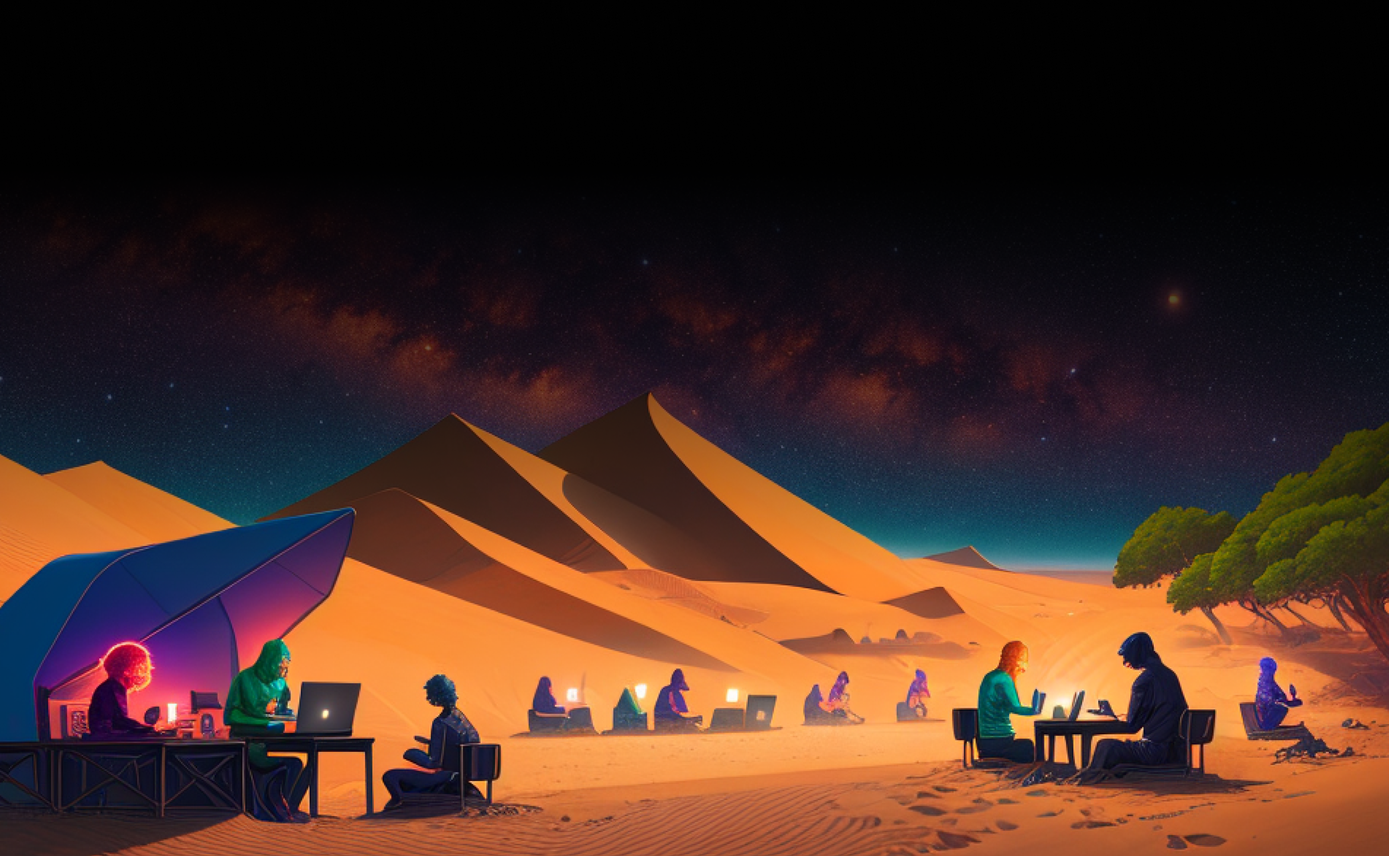
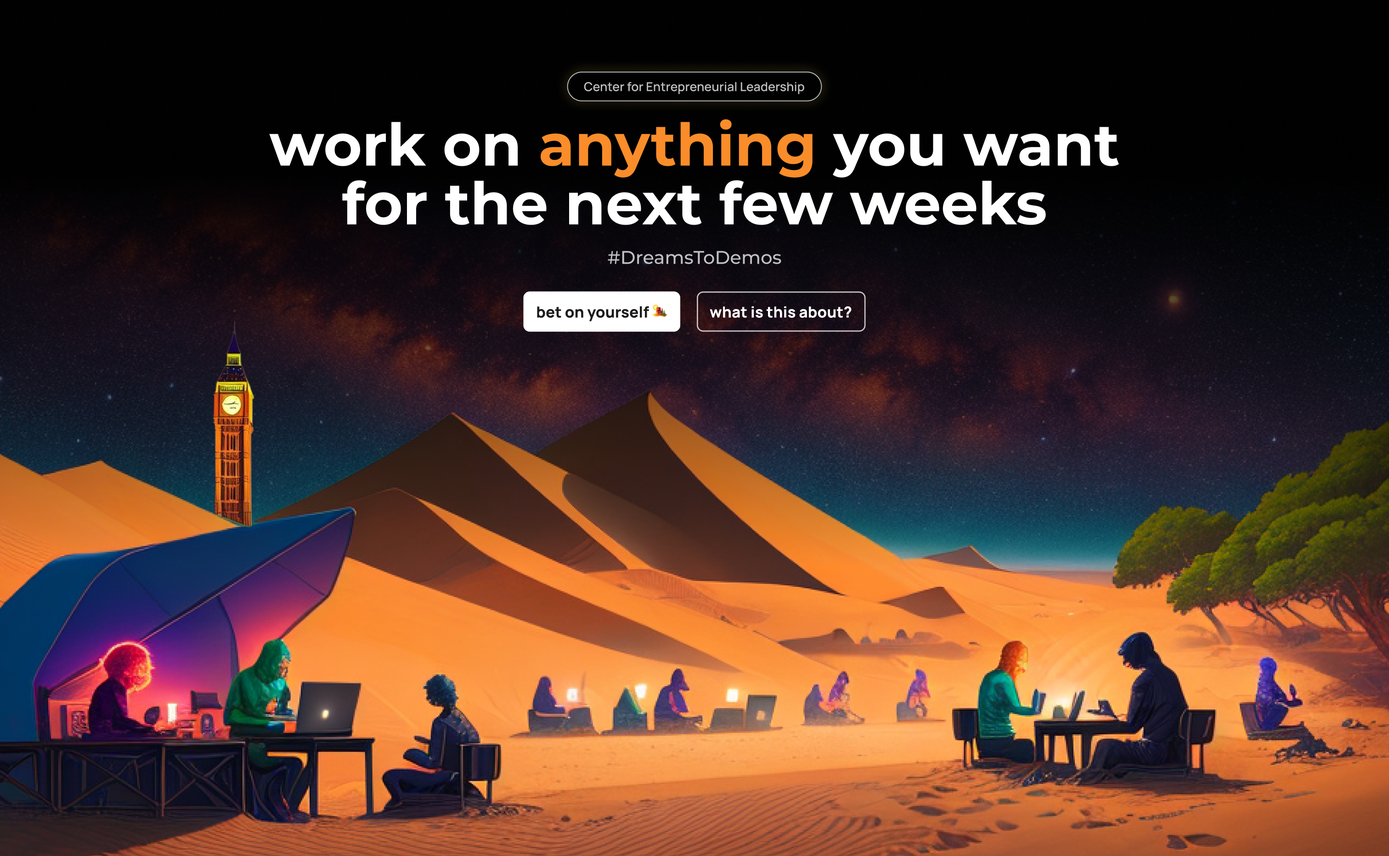
fix: clock tower in bg

Changed region(s): [[0.1865, 0.0933, 0.8082, 0.3112], [0.373, 0.3423, 0.6217, 0.4045], [0.1554, 0.4045, 0.1865, 0.6223]]

diff --git a/app/page.js b/app/page.js
@@ -13,7 +13,7 @@ export default function Home() {
 	return (
 		<>
 			<div
-				className="bg-cover bg-center bg-fixed flex flex-col min-h-screen"
+				className="bg-cover bg-center flex flex-col min-h-screen"
 				style={{ backgroundImage: "url('/images/her-bg-dhack.png')" }}
 			>
 				<div className="text-center flex flex-row justify-between mt-4">
